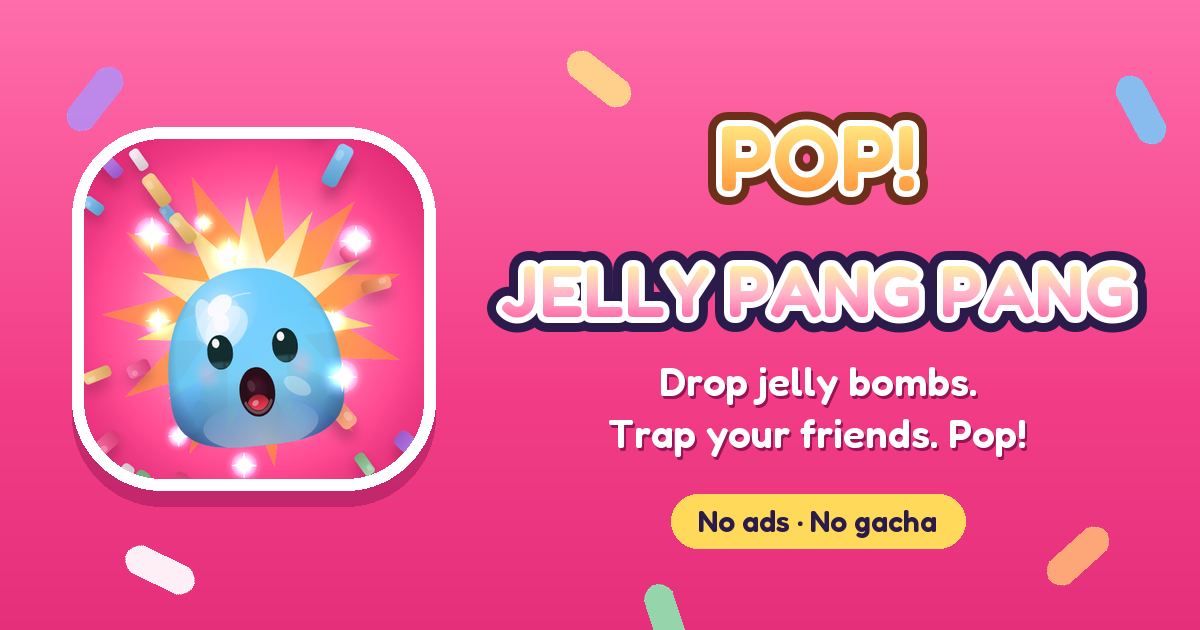
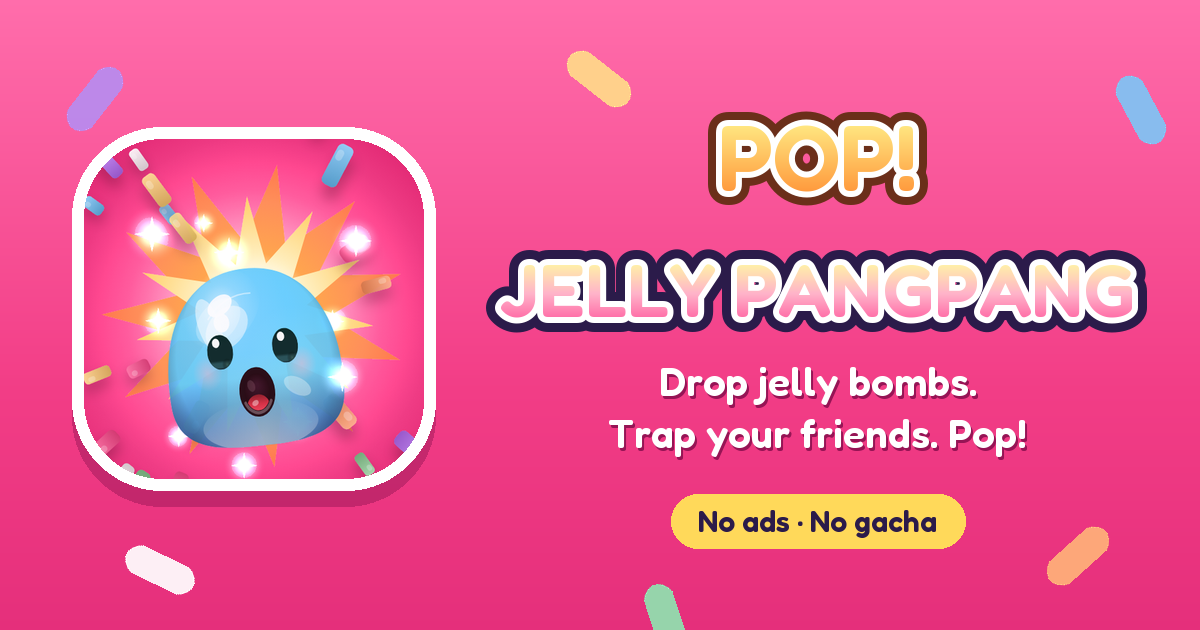
Join the English wordmark to match the store name: JELLY PANGPANG
The logo and the social preview image spelled it PANG PANG while the stores say
PangPang. Now they all read the same.

Changed region(s): [[0.4317, 0.3921, 0.9558, 0.5429], [0.4008, 0.4524, 0.4317, 0.5127]]

diff --git a/index.html b/index.html
@@ -55,7 +55,7 @@
 </script>
 <style>
 @font-face{font-family:"Fredoka";src:url("fredoka-600.woff2") format("woff2");font-weight:600;font-style:normal;font-display:swap}
-/* [c599] [c599b] [c599c] 한국어 로고 글꼴 — 글자 6개 서브셋(나눔스퀘어라운드 EB) */
+/* [c599] [c599b] [c599c] [c613] 한국어 로고 글꼴 — 글자 6개 서브셋(나눔스퀘어라운드 EB) */
 /* [c599b] 간체 중국어·아랍어 로고 글꼴 */
 @font-face{font-family:"SRLogo";src:url("srlogo.woff2") format("woff2");font-weight:700;font-style:normal;font-display:block}
 @font-face{font-family:"ARLogo";src:url("arlogo.woff2") format("woff2");font-weight:700;font-style:normal;font-display:block}
@@ -234,9 +234,9 @@ html[lang="ko"] body{word-break:keep-all}
         <text x="300" y="62" fill="url(#gPop)">POP!</text>
       </g>
       <g font-size="64" letter-spacing="1">
-        <text x="300" y="158" fill="none" stroke="#2b1b4a" stroke-width="26" stroke-linejoin="round">JELLY PANG PANG</text>
-        <text x="300" y="158" fill="none" stroke="#fff" stroke-width="11" stroke-linejoin="round">JELLY PANG PANG</text>
-        <text x="300" y="158" fill="url(#gJelly)">JELLY PANG PANG</text>
+        <text x="300" y="158" fill="none" stroke="#2b1b4a" stroke-width="26" stroke-linejoin="round">JELLY PANGPANG</text>
+        <text x="300" y="158" fill="none" stroke="#fff" stroke-width="11" stroke-linejoin="round">JELLY PANGPANG</text>
+        <text x="300" y="158" fill="url(#gJelly)">JELLY PANGPANG</text>
       </g>
     </svg>
     <svg class="logo ko" viewBox="0 0 600 196" aria-hidden="true" focusable="false">
